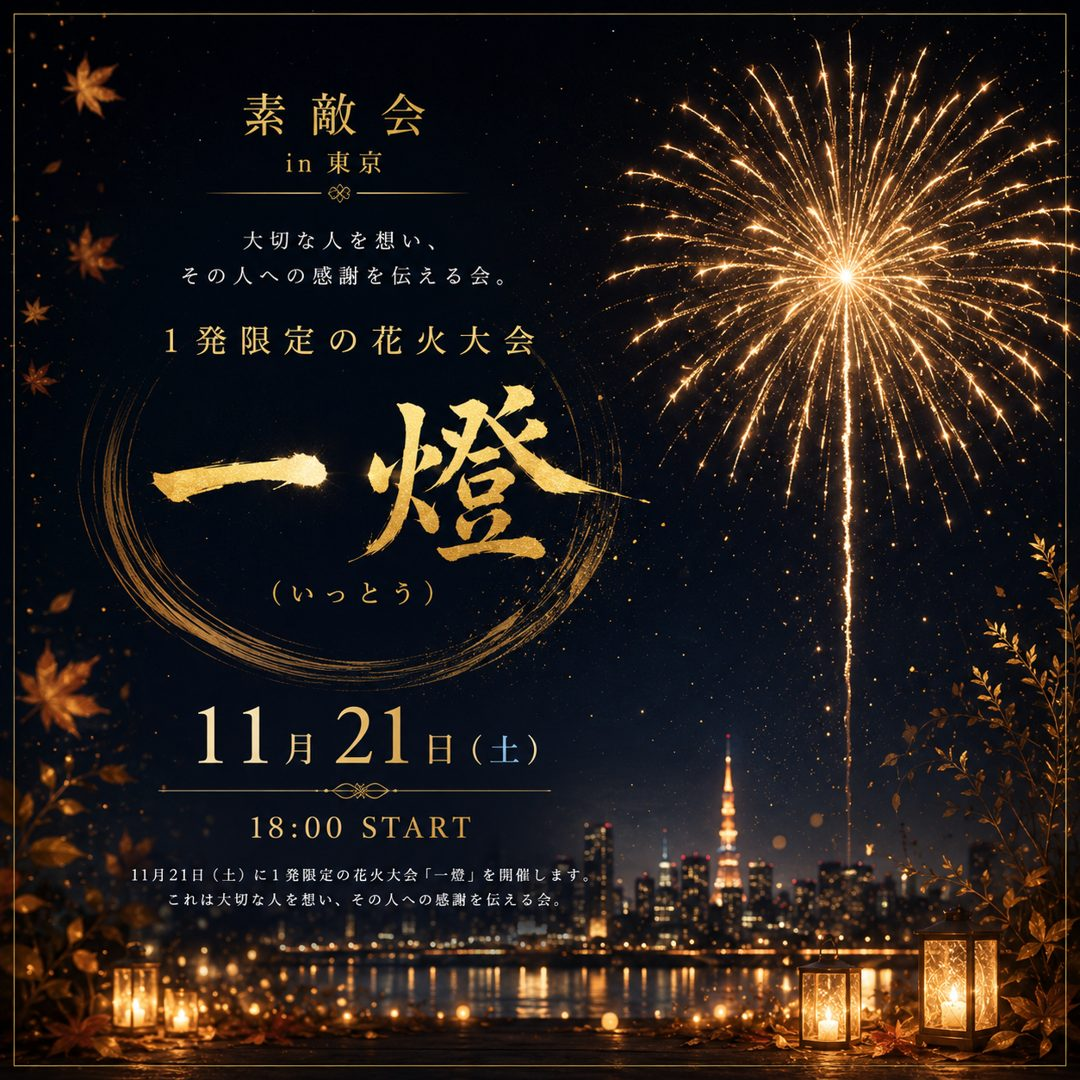
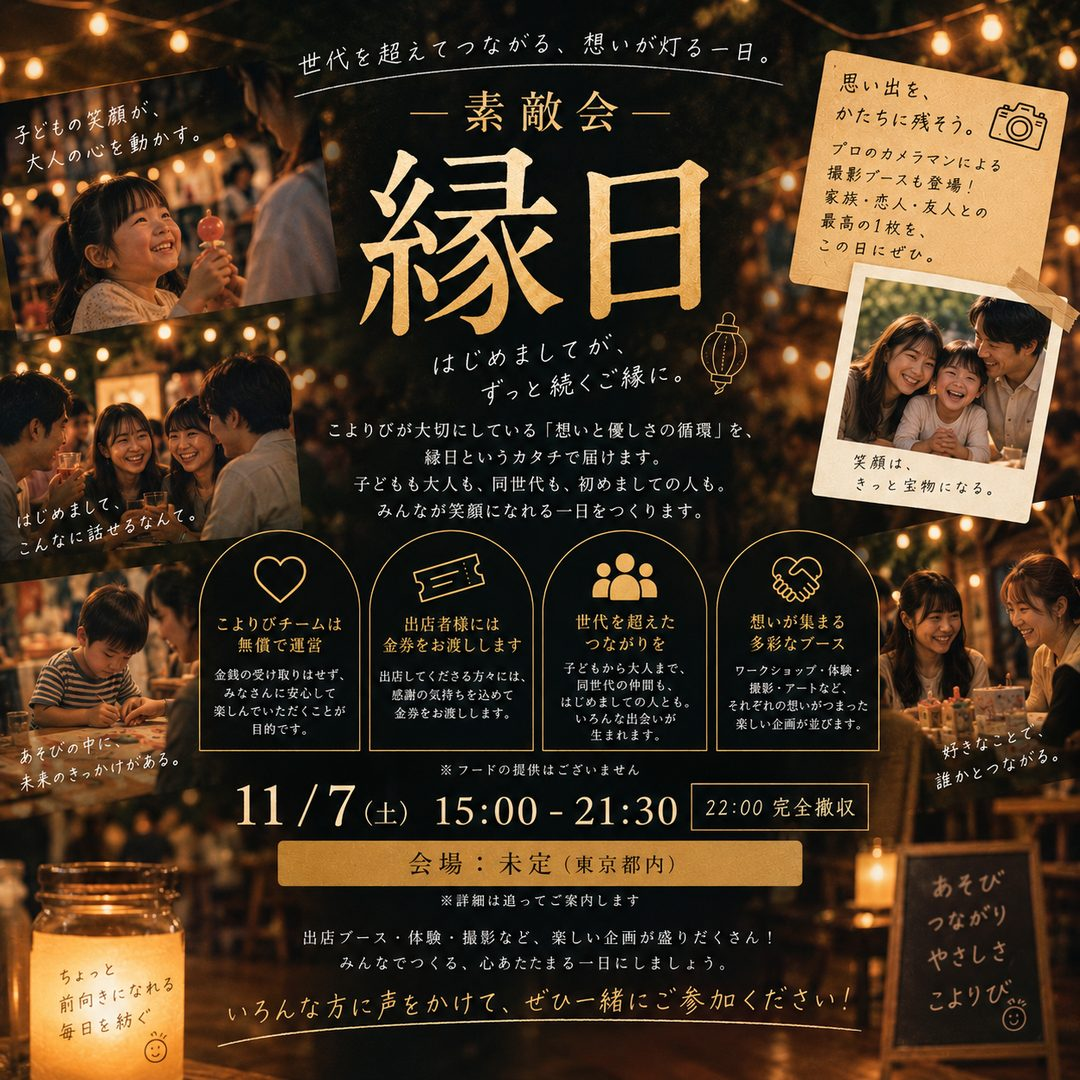
Add files via upload

diff --git a/index.html b/index.html
@@ -530,17 +530,18 @@ body.op-lock{ overflow:hidden; }
         </div>
       </article>
 
-      <!-- 11/21 一燈 -->
-      <article class="event-card hover-lift reveal" data-end="2026-11-21" data-form="itto">
+      <!-- 11/7 縁日 -->
+      <article class="event-card hover-lift reveal" data-end="2026-11-07" data-form="itto">
         <div class="event-photo">
-          <img src="event-itto.jpg" alt="素敵会「一燈」 11月21日(土)18:00開催の告知" loading="lazy">
+          <img src="event-itto.jpg" alt="素敵会「縁日」 11月7日(土)15:00開催の告知" loading="lazy">
         </div>
         <div class="event-body">
-          <p class="event-date">2026.11.21 SAT 18:00-<span class="event-place">東京</span></p>
-          <h3 class="event-name">素敵会「一燈」</h3>
+          <p class="event-date">2026.11.07 SAT 15:00-21:30<span class="event-place">東京</span></p>
+          <h3 class="event-name">素敵会「縁日」</h3>
           <p class="event-desc">
-            秋の夜に、一発限定の特別な花火を打ち上げる。
-            大切な人への感謝を想い、花火や縁日を自分たちの手でつくり上げて楽しむ会。
+            世代を超えてつながる、想いが灯る一日。
+            子どもも大人も、初めましての人も。出店ブース、体験、撮影など、
+            みんなでつくる心あたたまる縁日です。(22:00 完全撤収／会場は東京都内・詳細は追ってご案内)
           </p>
           <div class="event-actions"></div>
         </div>
@@ -677,7 +678,7 @@ const FORM_URLS = {
   meguri:   "",                                        // 素敵会 in 大阪「巡」(終了)
   reloved:  "https://forms.gle/TMxtcoh9XQYoAy8n7",     // 9/26 Re-Loved Market
   thetable: "https://forms.gle/kho9nQnjiByUxL7MA",     // 10/3 The Table
-  itto:     "https://forms.gle/e2QnaVuAitPbPbMz9",     // 11/21 一燈
+  itto:     "https://forms.gle/e2QnaVuAitPbPbMz9",     // 11/7 縁日
   candle:   "https://forms.gle/eUChkCciPBBHGUnz7"      // 12/19 Candle Night
 };
 /* ========================================================== */
